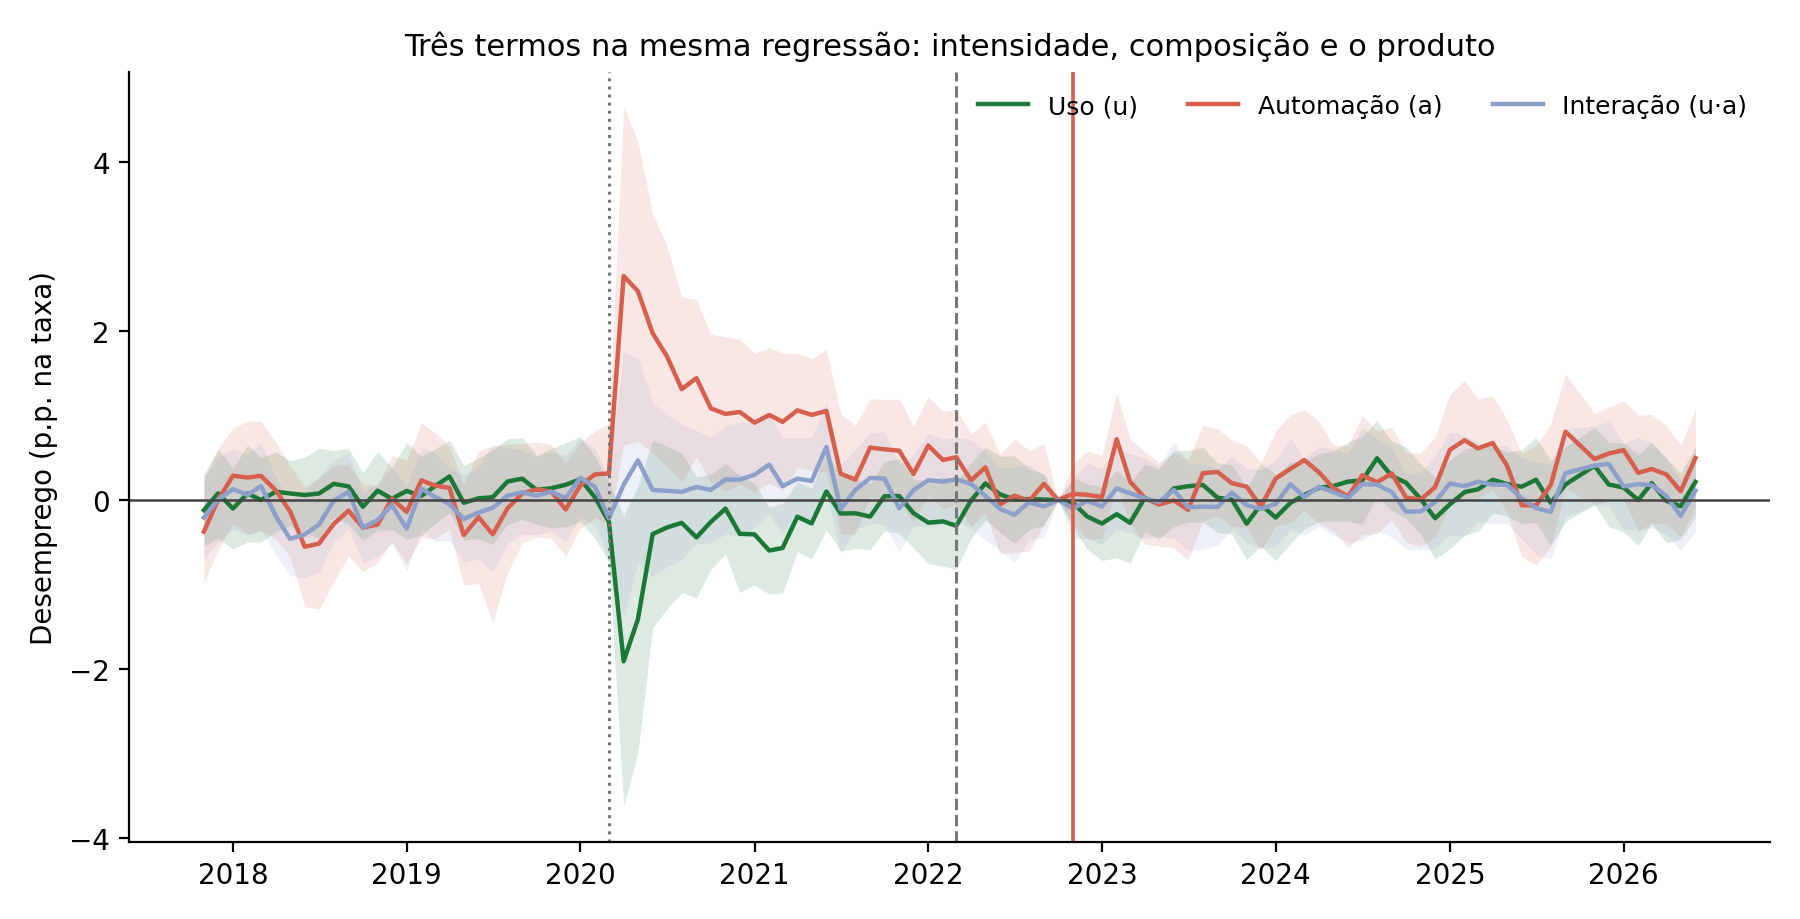
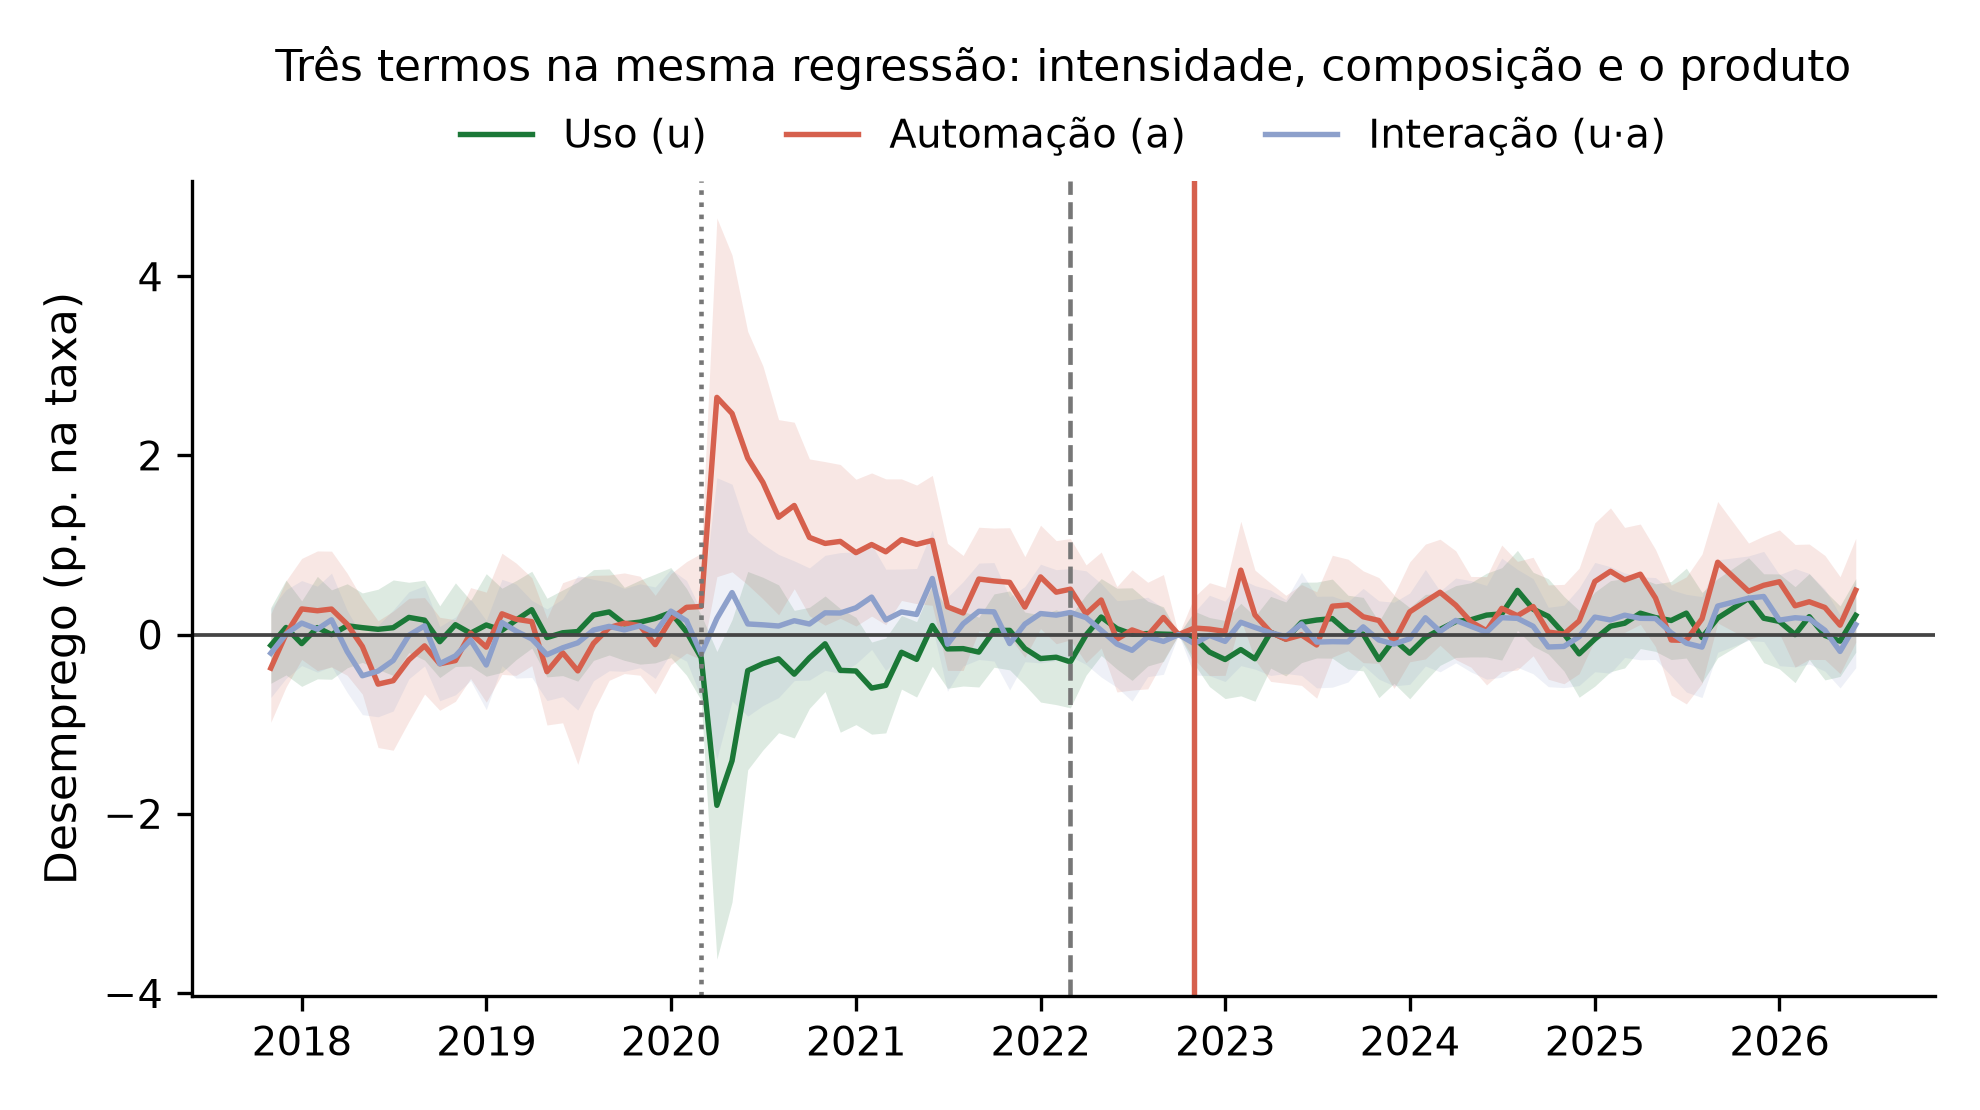
Figuras legiveis a 16 cm e nome completo do autor
Claude-Session: https://claude.ai/code/session_01Pbxq9is9QW9X5VTA3iqWp6

diff --git a/analise/src/06_cadeia_metrica.py b/analise/src/06_cadeia_metrica.py
@@ -34,10 +34,11 @@ TEXTO_CLARO = {"desfecho"}
 CINZA = "#3d3d3d"
 
 
-def caixa(ax, x, y, w, h, texto, papel, fs=8.5):
-    """Nó do diagrama, com cor pelo papel e texto centrado."""
+def caixa(ax, x, y, w, h, texto, papel, fs=8.5, arredonda=0.02):
+    """Nó do diagrama, com cor pelo papel e texto centrado. `arredonda` é o raio
+    do canto em unidades de dados, que aqui são polegadas."""
     ax.add_patch(FancyBboxPatch(
-        (x, y), w, h, boxstyle="round,pad=0.008,rounding_size=0.02",
+        (x, y), w, h, boxstyle=f"round,pad=0.008,rounding_size={arredonda}",
         linewidth=1.1, edgecolor=COR[papel],
         facecolor=COR[papel] if papel in TEXTO_CLARO else COR[papel] + "33"))
     ax.text(x + w / 2, y + h / 2, texto, ha="center", va="center", fontsize=fs,
@@ -74,58 +75,68 @@ def liga(ax, a, b, rotulo=None, estilo="-", lado="auto", fs=7.2,
                           edgecolor="none", alpha=0.95))
 
 
-def legenda(ax, papeis, y=0.02):
+def legenda(ax, papeis, y=0.02, fs=7.6):
     handles = [Line2D([], [], marker="s", linestyle="", markersize=8,
                       markerfacecolor=COR[p] if p in TEXTO_CLARO else COR[p] + "55",
                       markeredgecolor=COR[p], label=rot)
                for p, rot in papeis]
     ax.legend(handles=handles, loc="lower center", bbox_to_anchor=(0.5, y),
-              ncol=len(papeis), frameon=False, fontsize=7.6,
+              ncol=len(papeis), frameon=False, fontsize=fs,
               handletextpad=0.5, columnspacing=1.6)
 
 
 def main():
-    # A GEOMETRIA É PARA PÁGINA EM RETRATO, e é ela que decide a legibilidade. O
-    # tamanho do texto NA PÁGINA é proporcional ao corpo da fonte dividido pela
-    # largura em polegadas, então estreitar a figura aumenta a fonte impressa: em
-    # 13x4 o docx a escalava para a largura útil e o texto das caixas ficava
-    # microscópico, ainda que impecável no .png solto. Rótulo curto é requisito
-    # pela mesma razão, porque as cinco caixas dividem cerca de 16 cm de página.
-    # Quem carrega o detalhe é a Nota da figura e a Tabela A1; a figura carrega a
-    # forma. Ao mexer aqui, regere e olhe o PDF.
-    fig, ax = plt.subplots(figsize=(9.2, 4.6))
-    ax.set_xlim(0, 1)
-    ax.set_ylim(0, 1)
+    # O TEXTO TEM DE SER LEGÍVEL NA PÁGINA, e é a largura que decide. O relatório
+    # põe a figura a 16 cm (6,3 pol), e o corpo impresso da fonte é
+    # pt × 6,3 / largura em polegadas. A versão em fileira única (9,2 pol, cinco
+    # caixas lado a lado) imprimia o texto das caixas a 5,9 pt e o das setas a
+    # 5 pt. Cinco caixas mais quatro rótulos de seta não cabem em 6,6 pol num
+    # corpo de 9–10 pt, então a construção da métrica dobra em duas fileiras (a
+    # segunda corre da direita para a esquerda) e o painel de desfechos fica na
+    # terceira. Quem carrega o detalhe é a Nota da figura e a Tabela A1; a
+    # figura carrega a forma.
+    # A tela está em POLEGADAS (0–W, 0–H), para que distância e fonte falem a
+    # mesma unidade. Ao mexer aqui, regere e OLHE o PNG.
+    W, H = 6.6, 3.75
+    fig = plt.figure(figsize=(W, H))
+    # eixos ocupando a figura inteira e sem tight_layout: é o que mantém a
+    # unidade de dados igual à polegada real (o tight_layout encolheria os eixos
+    # para caber a legenda, e as caixas sairiam menores que o texto delas)
+    ax = fig.add_axes([0, 0, 1, 1])
+    ax.set_xlim(0, W)
+    ax.set_ylim(0, H)
     ax.axis("off")
+    FS, FS_SETA, R = 9.5, 9, 0.08
+    bw, bh = 1.58, 0.74
+    c1, c2, c3 = 0.05, 2.51, 4.97         # colunas (x da borda esquerda)
+    ya, yb, yc = 2.96, 1.78, 0.42          # fileiras (y da borda inferior)
 
-    y1, h = 0.58, 0.28
-    c = caixa(ax, 0.015, y1, 0.17, h, "conversas do AEI\n(2,9 milhões)", "dado")
-    t = caixa(ax, 0.250, y1, 0.16, h, "tarefa O*NET\n+ tipo de uso", "dado")
-    s = caixa(ax, 0.480, y1, 0.14, h, "ocupação\nSOC", "dado")
-    o = caixa(ax, 0.665, y1, 0.13, h, "código\nCPS", "dado")
-    d = caixa(ax, 0.830, y1, 0.155, h,
-              "métrica por ocupação:\nuso $u$, automação $a$", "tratamento")
-    liga(ax, c, t, "classificação\npor modelo")
-    liga(ax, t, s, "repartição\nfracionária")
-    liga(ax, s, o, "harmonização\nde versão")
-    liga(ax, o, d, "agregação", lab=(-0.010, 0.012))
+    c = caixa(ax, c1, ya, bw, bh, "conversas do AEI\n(2,9 milhões)", "dado", FS, R)
+    t = caixa(ax, c2, ya, bw, bh, "tarefa O*NET\n+ tipo de uso", "dado", FS, R)
+    s = caixa(ax, c3, ya, bw, bh, "ocupação\nSOC", "dado", FS, R)
+    o = caixa(ax, c3, yb, bw, bh, "código\nCPS", "dado", FS, R)
+    d = caixa(ax, c2, yb, bw, bh, "métrica por ocupação:\nuso $u$,\nautomação $a$",
+              "tratamento", FS, R)
+    liga(ax, c, t, "classificação\npor modelo", fs=FS_SETA, lab=(0, 0.02))
+    liga(ax, t, s, "repartição\nfracionária", fs=FS_SETA, lab=(0, 0.02))
+    liga(ax, s, o, "harmonização\nde versão", fs=FS_SETA, lado="v",
+         lab=(-0.62, -0.19))
+    liga(ax, o, d, "agregação", fs=FS_SETA, lab=(0, 0.02))
 
-    y2 = 0.10
-    p = caixa(ax, 0.105, y2, 0.17, 0.24, "CPS / IPUMS\nocupação × mês\n2010–2026", "dado")
-    yy = caixa(ax, 0.380, y2, 0.17, 0.24,
-               "desfechos: salário real\ne taxa de desemprego", "desfecho")
-    es = caixa(ax, 0.700, y2, 0.19, 0.24,
-               "event study com\ntratamento contínuo\n(seção 3.2.2)", "motor")
+    p = caixa(ax, c1, yc, bw, bh, "CPS / IPUMS\nocupação × mês\n2010–2026", "dado", FS, R)
+    yy = caixa(ax, c2, yc, bw, bh, "desfechos:\nsalário real e taxa\nde desemprego",
+               "desfecho", FS, R)
+    es = caixa(ax, c3, yc, bw, bh, "event study com\ntratamento contínuo\n(seção 3.2.2)",
+               "motor", FS, R)
     liga(ax, p, yy)
     liga(ax, yy, es)
-    liga(ax, d, es, "entra como\ntratamento",
-         estilo=(0, (4, 3)), lado="v", off_a=-0.02, lab=(0.052, -0.06))
+    liga(ax, d, es, "entra como\ntratamento", fs=FS_SETA,
+         estilo=(0, (4, 3)), lado="v", off_a=0.55, off_b=-0.55, lab=(-0.80, -0.20))
 
     legenda(ax, [("dado", "dado observado"), ("tratamento", "tratamento estimado"),
-                 ("desfecho", "desfecho"), ("motor", "especificação")], y=-0.02)
-    fig.tight_layout()
+                 ("desfecho", "desfecho"), ("motor", "especificação")], y=-0.03, fs=9.5)
     destino = comum.FIG_DIR / "fig01_cadeia_metrica.png"
-    fig.savefig(destino, dpi=200, bbox_inches="tight")
+    fig.savefig(destino, dpi=300, bbox_inches="tight")
     plt.close(fig)
     print(f"[6] figura: {destino.name}")
 

diff --git a/analise/src/05_ortogonalidade.py b/analise/src/05_ortogonalidade.py
@@ -57,32 +57,35 @@ def doses_de_nivel():
 
 
 def figura(occ, cor_volumes):
-    fig, axes = plt.subplots(1, 2, figsize=(9.6, 4.3))
+    # 6,6 pol de largura para a página de 16 cm (6,3 pol): o corpo impresso é
+    # pt × 6,3 / largura, e em 9,6 pol o rótulo de eixo saía a 6,2 pt. Aqui o
+    # menor texto (9,5 pt) sai a ~9 pt.
+    fig, axes = plt.subplots(1, 2, figsize=(6.6, 3.8))
     paineis = [
         (axes[0], occ["usage_z"], occ["automation_z"], VERDE,
-         "A. O que estimamos: intensidade × fração",
+         "A. Especificação adotada:\nintensidade e fração substitutiva",
          "intensidade do uso $u$ (d.p.)", "fração substitutiva $a$ (d.p.)",
          occ["usage_z"].corr(occ["automation_z"])),
         (axes[1], occ["aug_pc_z"], occ["auto_pc_z"], TIJOLO,
-         "B. A tradução literal: os dois volumes",
+         "B. Alternativa da literatura:\nvolumes complementar e substitutivo",
          "volume complementar (d.p.)", "volume substitutivo (d.p.)",
          cor_volumes),
     ]
     for ax, x, y, cor, titulo, xlab, ylab, r in paineis:
-        ax.scatter(x, y, s=13, color=cor, alpha=0.5, linewidth=0)
+        ax.scatter(x, y, s=7, color=cor, alpha=0.5, linewidth=0)
         # a reta de ajuste é o que separa visualmente uma nuvem de uma reta
         b = np.polyfit(x, y, 1)
         xx = np.linspace(x.min(), x.max(), 50)
-        ax.plot(xx, np.polyval(b, xx), color=cor, lw=1.7)
-        ax.set_title(titulo, fontsize=10.5)
-        ax.set_xlabel(xlab, fontsize=9.5)
-        ax.set_ylabel(ylab, fontsize=9.5)
+        ax.plot(xx, np.polyval(b, xx), color=cor, lw=1.4)
+        ax.set_title(titulo, fontsize=10)
+        ax.set_xlabel(xlab, fontsize=10)
+        ax.set_ylabel(ylab, fontsize=10)
         # menos tipográfico e vírgula decimal, que é o que a página do paper usa
         ax.text(0.04, 0.94, f"r = {r:+.2f}".replace(".", ",").replace("-", "−"),
-                transform=ax.transAxes, fontsize=12, fontweight="bold",
+                transform=ax.transAxes, fontsize=11, fontweight="bold",
                 color=cor, va="top")
         ax.spines[["top", "right"]].set_visible(False)
-        ax.tick_params(labelsize=8.5)
+        ax.tick_params(labelsize=9.5)
     # mesma escala nos dois painéis: sem isso a comparação visual é enganosa
     lim = min(a.get_xlim()[0] for a in axes), max(a.get_xlim()[1] for a in axes)
     for ax in axes:
@@ -91,7 +94,7 @@ def figura(occ, cor_volumes):
 
     fig.tight_layout()
     destino = comum.FIG_DIR / f"fig16_ortogonalidade_vs_volumes_{comum.METRICA}.png"
-    fig.savefig(destino, dpi=200, bbox_inches="tight")
+    fig.savefig(destino, dpi=300, bbox_inches="tight")
     plt.close(fig)
     print(f"[5] figura: {destino.name}")
 

diff --git a/analise/src/03_quartis.py b/analise/src/03_quartis.py
@@ -89,18 +89,34 @@ def contraste_pos(m, tokens, pesos):
     return {"est": est, "se": se, "lo": est - 1.96 * se, "hi": est + 1.96 * se}
 
 
-def figura(m, rotulo_y, titulo, nome):
-    fig, ax = plt.subplots(figsize=(13, 5.5))
+def figura(m, rotulo_y, titulo, nome, escala=1.0):
+    """`escala` multiplica só o que se desenha. O desemprego do painel é fração
+    da força de trabalho (0,02 = 2 p.p.), e o desemprego passa escala=100 para
+    que o eixo fale a unidade que o rótulo anuncia. A tabela continua na unidade
+    do painel."""
+    # TAMANHO PARA A PÁGINA. O relatório põe a figura a 16 cm (6,3 pol) de
+    # largura, e o corpo impresso da fonte é pt × 6,3 / largura em polegadas. Em
+    # 13 pol cada ponto virava 0,48 pt no papel; em 6,6 pol a escala é 0,95, e o
+    # menor texto (9,5 pt) sai a ~9 pt impresso.
+    fig, ax = plt.subplots(figsize=(6.6, 3.6))
     r = comum.es_coefs(m, ":q4")
     datas = r["k"].map(comum.k_para_data)
-    ax.fill_between(datas, r["est"] - 1.96 * r["se"], r["est"] + 1.96 * r["se"],
+    est, se = r["est"] * escala, r["se"] * escala
+    ax.fill_between(datas, est - 1.96 * se, est + 1.96 * se,
                     color=COR_Q4, alpha=0.13, linewidth=0)
-    ax.plot(datas, r["est"], ".", ms=4, color=COR_Q4)
+    ax.plot(datas, est, ".", ms=3, color=COR_Q4)
     comum.eixos_es(ax, rotulo_y)
-    ax.set_title(titulo, fontsize=12)
+    ax.xaxis.label.set_size(10.5)
+    ax.yaxis.label.set_size(10.5)
+    ax.tick_params(labelsize=9.5)
+    # título longo quebra em duas linhas, no travessão, em vez de estourar a
+    # largura: a primeira linha diz o contraste, a segunda o desfecho
+    if len(titulo) > 64:
+        titulo = titulo.replace(" — ", "\n", 1)
+    ax.set_title(titulo, fontsize=10.5)
     comum.rodape(fig)
-    fig.tight_layout()
-    fig.savefig(comum.FIG_DIR / nome, dpi=150)
+    fig.tight_layout(rect=(0, 0.03, 1, 1))
+    fig.savefig(comum.FIG_DIR / nome, dpi=300)
     plt.close(fig)
     print(f"[3] figura: {nome}")
 
@@ -139,7 +155,8 @@ def roda(por: str, figuras: dict, sufixo: str):
            else "quarto de uso mais substitutivo vs. o mais complementar")
     if "desemprego" in figuras:
         figura(mu, "Efeito vs. Q1 (p.p. de desemprego)",
-               f"Event study por {rot} — Desemprego", figuras["desemprego"])
+               f"Event study por {rot} — Desemprego", figuras["desemprego"],
+               escala=100.0)
     if "salarios" in figuras:
         figura(me, "Efeito vs. Q1 (US$ semanais de jan/2010)",
                f"Event study por {rot} — Salários reais", figuras["salarios"])

diff --git a/analise/src/04_especificacao.py b/analise/src/04_especificacao.py
@@ -124,26 +124,32 @@ def ajusta(y, w, sub):
 
 
 def figura(m, escala, rotulo_y, destino, titulo):
-    fig, ax = plt.subplots(figsize=(9, 4.6))
+    # 6,6 pol de largura para a página de 16 cm (6,3 pol): escala 0,95, e o menor
+    # texto (9,5 pt) sai a ~9 pt impresso. Em 9 pol ele saía a 6,3 pt.
+    fig, ax = plt.subplots(figsize=(6.6, 3.7))
     for token, rot, cor in SERIES:
         r = comum.es_coefs(m, f":{token}")
         r = r[r["k"] >= -60]
         datas = [comum.k_para_data(k) for k in r["k"]]
         est = r["est"] * escala
         se = r["se"] * escala
-        ax.plot(datas, est, color=cor, lw=1.6, label=rot.replace("*", ""))
+        ax.plot(datas, est, color=cor, lw=1.3, label=rot.replace("*", ""))
         ax.fill_between(datas, est - 1.96 * se, est + 1.96 * se,
                         color=cor, alpha=0.15, lw=0)
     ax.axhline(0, color="#444444", lw=0.9)
     ax.axvline(pd.Timestamp("2020-03-01"), color="#777777", ls=":", lw=1.1)
     ax.axvline(pd.Timestamp("2022-03-01"), color="#777777", ls="--", lw=1.1)
     ax.axvline(pd.Timestamp("2022-11-01"), color="#d6604d", lw=1.3)
-    ax.set_ylabel(rotulo_y)
-    ax.set_title(titulo, fontsize=11)
-    ax.legend(frameon=False, ncol=3, fontsize=9)
+    ax.set_ylabel(rotulo_y, fontsize=10.5)
+    # legenda numa faixa própria entre o título e o gráfico: no corpo que a
+    # página exige ela não cabe dentro dos eixos sem cruzar as linhas verticais
+    ax.set_title(titulo, fontsize=10.5, pad=24)
+    ax.tick_params(labelsize=9.5)
+    ax.legend(frameon=False, ncol=3, fontsize=9.5, loc="lower center",
+              bbox_to_anchor=(0.5, 1.0), borderaxespad=0.2, handlelength=1.8)
     ax.spines[["top", "right"]].set_visible(False)
     fig.tight_layout()
-    fig.savefig(destino, dpi=200)
+    fig.savefig(destino, dpi=300)
     plt.close(fig)
 
 

diff --git a/analise/src/comum.py b/analise/src/comum.py
@@ -216,8 +216,11 @@ def k_para_data(k) -> pd.Timestamp:
     return pd.Timestamp(y, m + 1, 1)
 
 
-NOTA_FIG = ("Referência: Out/2022 | linhas verticais: Mar/2020 (pandemia), "
-            "Mar/2022 (juros), Nov/2022 (ChatGPT, em vermelho)")
+# O rodapé traz só a referência. O significado das três linhas verticais
+# (mar/2020, pandemia; mar/2022, juros; nov/2022, ChatGPT, em vermelho) está na
+# Nota de cada figura no relatório: a frase inteira não cabe na largura da
+# página num corpo legível.
+NOTA_FIG = "Referência: Out/2022"
 
 
 def eixos_es(ax, rotulo_y: str):
@@ -233,4 +236,5 @@ def eixos_es(ax, rotulo_y: str):
 
 
 def rodape(fig):
-    fig.text(0.99, 0.005, NOTA_FIG, ha="right", fontsize=9.5, color="0.25")
+    fig.text(0.99, 0.01, NOTA_FIG, ha="right", va="bottom", fontsize=9.5,
+             color="0.25")

diff --git a/README.md b/README.md
@@ -11,7 +11,7 @@ componente negativo, escondido dentro de um saldo positivo, que a medida única 
 mostra. O desemprego não se move, e o relatório explica por que esse zero é ausência
 de evidência e não evidência de ausência.
 
-**Autor:** Kauã Victor Dias Santos · **Orientador:** Prof. Thomas Victor Conti ·
+**Autor:** Kauã Victor Dias dos Santos · **Orientador:** Prof. Thomas Victor Conti ·
 **Coorientador:** Prof. Naércio Aquino Menezes Filho
 
 Aqui estão o código, os dados derivados e a documentação de método: é o que permite
